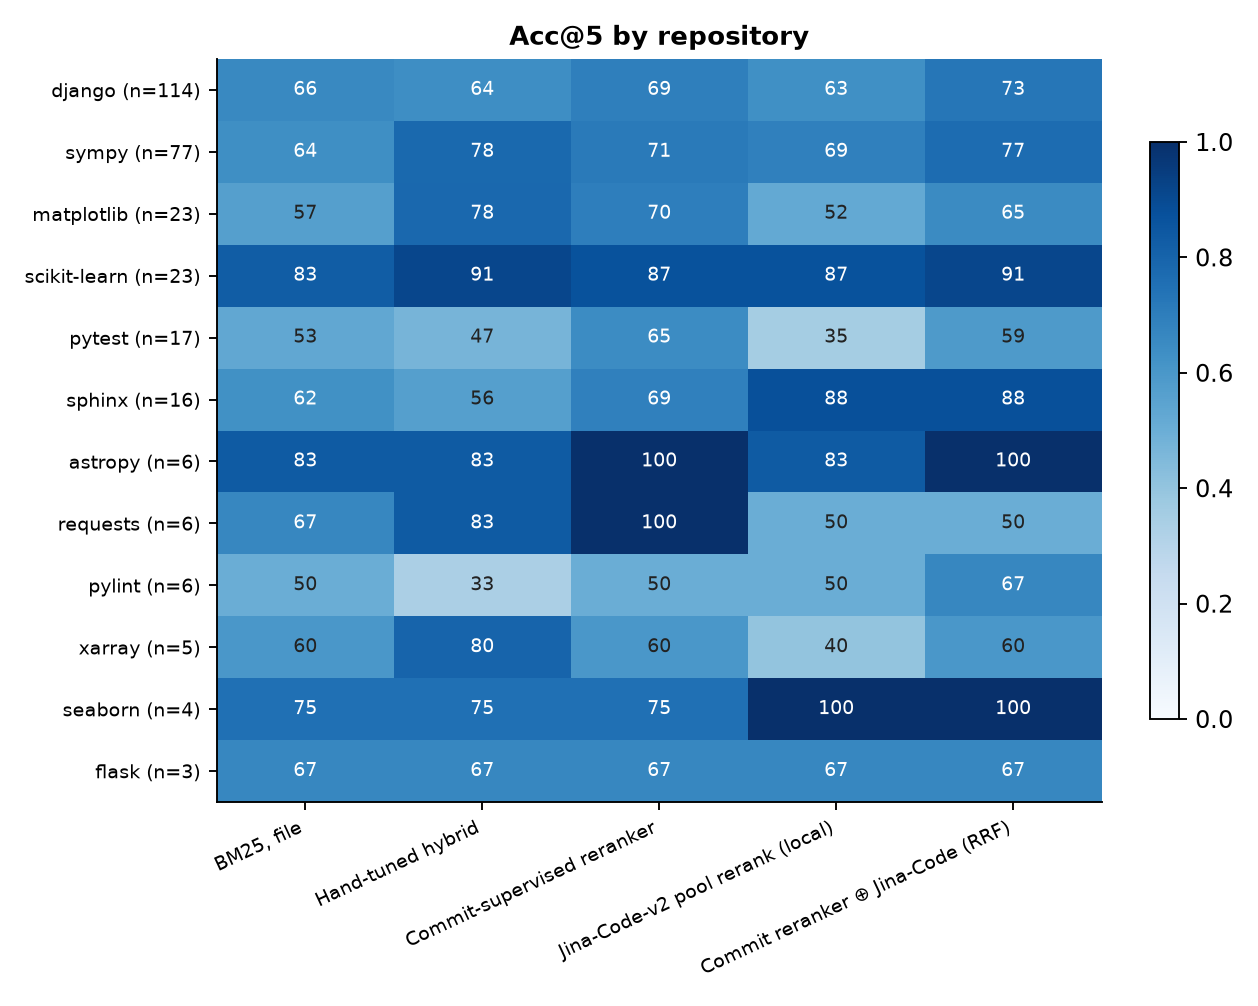
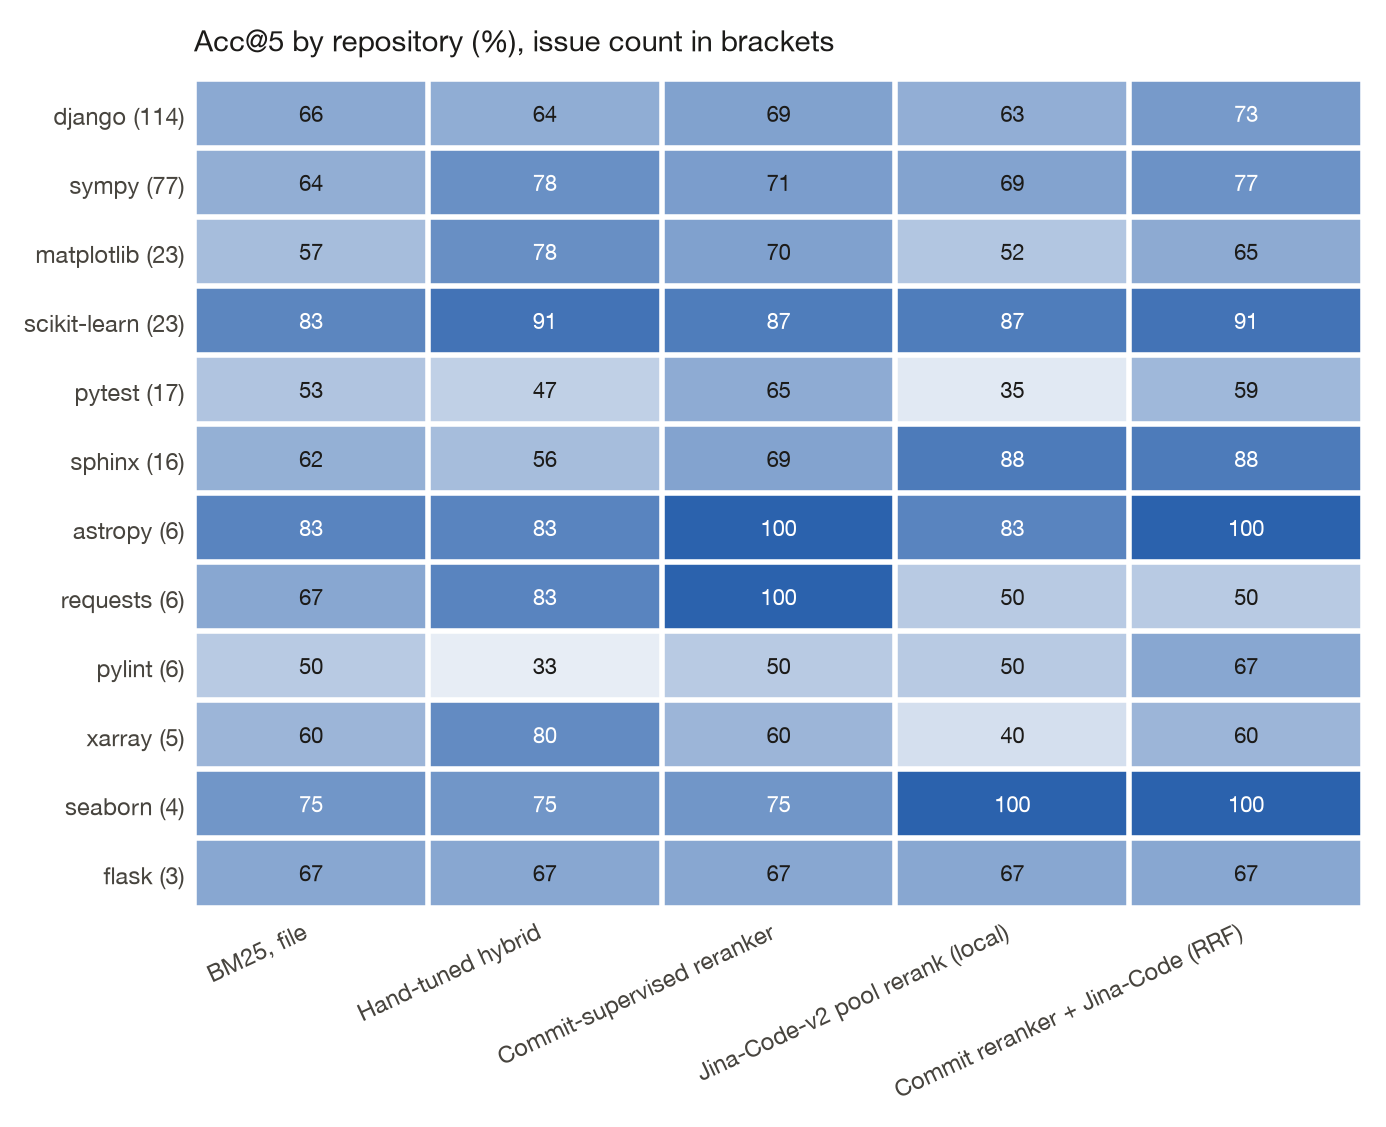
Restyle charts to match the project pages
One shared chart style (chartstyle.py): sans labels like the page tables, plain
left-aligned titles, a light horizontal grid, direct labels where lines end, and a
four-colour set that passes a colour-blind separation check. Charts regenerated
from the committed results; no numbers changed.

diff --git a/site/index.html b/site/index.html
@@ -77,7 +77,7 @@ rows use paid APIs and nothing measured here does. My BM25 lands close to the pu
 <div class="tbl wide"><p class=cap><b>Table 1.</b> File-level localization on SWE-bench Lite, 300 issues.</p><div class=scroll><table><thead><tr><th>Method</th><th>Source</th><th class=n>Acc@1</th><th class=n>Acc@3</th><th class=n>Acc@5</th><th class=n>Acc@10</th><th class=n>MRR</th></tr></thead><tbody><tr><td><strong>Commit reranker ⊕ Jina-Code (RRF)</strong></td><td>measured here</td><td class=n>46.0 <span class=dim>[40.3, 51.7]</span></td><td class=n>65.7 <span class=dim>[60.3, 71.0]</span></td><td class=n>74.7 <span class=dim>[69.7, 79.3]</span></td><td class=n>83.7</td><td class=n>0.586</td></tr><tr><td>BM25 ⊕ Jina-Code (RRF)</td><td>measured here</td><td class=n>43.0 <span class=dim>[37.3, 48.7]</span></td><td class=n>63.7 <span class=dim>[58.0, 69.3]</span></td><td class=n>73.3 <span class=dim>[68.3, 78.3]</span></td><td class=n>80.3</td><td class=n>0.561</td></tr><tr><td>Commit-supervised reranker</td><td>measured here</td><td class=n>47.7 <span class=dim>[42.0, 53.7]</span></td><td class=n>65.0 <span class=dim>[59.3, 70.3]</span></td><td class=n>71.7 <span class=dim>[66.0, 76.7]</span></td><td class=n>79.0</td><td class=n>0.587</td></tr><tr><td>Commit reranker, leave-one-repo-out</td><td>measured here</td><td class=n>46.0 <span class=dim>[40.7, 51.7]</span></td><td class=n>64.3 <span class=dim>[58.7, 69.7]</span></td><td class=n>71.0 <span class=dim>[65.7, 76.3]</span></td><td class=n>79.3</td><td class=n>0.573</td></tr><tr><td>Hand-tuned hybrid</td><td>measured here</td><td class=n>43.0 <span class=dim>[37.3, 48.3]</span></td><td class=n>63.0 <span class=dim>[57.3, 68.0]</span></td><td class=n>70.0 <span class=dim>[64.3, 75.3]</span></td><td class=n>76.3</td><td class=n>0.551</td></tr><tr><td>Jina-Code-v2 pool rerank (local)</td><td>measured here</td><td class=n>32.0 <span class=dim>[26.7, 37.7]</span></td><td class=n>54.0 <span class=dim>[48.3, 59.7]</span></td><td class=n>65.3 <span class=dim>[59.7, 71.0]</span></td><td class=n>78.7</td><td class=n>0.469</td></tr><tr><td>BM25, file</td><td>measured here</td><td class=n>37.3 <span class=dim>[32.0, 42.7]</span></td><td class=n>58.3 <span class=dim>[52.7, 64.0]</span></td><td class=n>65.0 <span class=dim>[59.3, 70.3]</span></td><td class=n>75.3</td><td class=n>0.507</td></tr><tr><td>BM25, chunk-max</td><td>measured here</td><td class=n>35.3 <span class=dim>[30.0, 41.0]</span></td><td class=n>57.0 <span class=dim>[51.3, 62.7]</span></td><td class=n>65.0 <span class=dim>[59.7, 70.3]</span></td><td class=n>72.3</td><td class=n>0.489</td></tr><tr><td>BM25</td><td>reported, sparse retrieval</td><td class=n>38.7</td><td class=n>51.8</td><td class=n>61.7</td><td class=n>–</td><td class=n>–</td></tr><tr><td>E5-base-v2</td><td>reported, dense retrieval</td><td class=n>49.6</td><td class=n>74.5</td><td class=n>80.3</td><td class=n>–</td><td class=n>–</td></tr><tr><td>Jina-Code-v2</td><td>reported, dense retrieval</td><td class=n>43.4</td><td class=n>71.2</td><td class=n>80.3</td><td class=n>–</td><td class=n>–</td></tr><tr><td>Codesage-large-v2</td><td>reported, dense retrieval</td><td class=n>47.8</td><td class=n>69.3</td><td class=n>78.1</td><td class=n>–</td><td class=n>–</td></tr><tr><td>CodeRankEmbed</td><td>reported, dense retrieval</td><td class=n>52.5</td><td class=n>77.7</td><td class=n>84.7</td><td class=n>–</td><td class=n>–</td></tr><tr><td>Agentless (GPT-4o)</td><td>reported, LLM pipeline</td><td class=n>67.2</td><td class=n>74.5</td><td class=n>74.5</td><td class=n>–</td><td class=n>–</td></tr><tr><td>Agentless (Claude-3.5)</td><td>reported, LLM pipeline</td><td class=n>72.6</td><td class=n>79.2</td><td class=n>79.6</td><td class=n>–</td><td class=n>–</td></tr><tr><td>SWE-agent (Claude-3.5)</td><td>reported, LLM agent</td><td class=n>77.4</td><td class=n>87.2</td><td class=n>90.2</td><td class=n>–</td><td class=n>–</td></tr><tr><td>OpenHands (Claude-3.5)</td><td>reported, LLM agent</td><td class=n>76.3</td><td class=n>89.8</td><td class=n>90.2</td><td class=n>–</td><td class=n>–</td></tr><tr><td>MoatlessTools (Claude-3.5)</td><td>reported, LLM agent</td><td class=n>72.6</td><td class=n>85.8</td><td class=n>86.1</td><td class=n>–</td><td class=n>–</td></tr><tr><td>LocAgent (Claude-3.5)</td><td>reported, LLM agent</td><td class=n>77.7</td><td class=n>92.0</td><td class=n>94.2</td><td class=n>–</td><td class=n>–</td></tr></tbody></table></div></div>
 <figure class=narrow><img src="swebench_leaderboard.png" alt="Horizontal bar chart of Acc@5 for measured and reported methods. Measured methods sit between BM25 and the LLM agents.">
 <figcaption><b>Figure 1.</b> Acc@5 for every method. Blue bars were measured here; grey and orange bars are reported numbers.</figcaption></figure>
-<figure class=wide><img src="swebench_acc_at_k.png" alt="Accuracy as the number of suggested files grows, for each measured method.">
+<figure class=narrow><img src="swebench_acc_at_k.png" alt="Accuracy as the number of suggested files grows, for each measured method.">
 <figcaption><b>Figure 2.</b> Accuracy as the number of suggested files grows.</figcaption></figure>
 <div class="tbl wide"><p class=cap><b>Table 2.</b> Acc@5 by repository.</p><div class=scroll><table><thead><tr><th>Repository</th><th class=n>Issues</th><th class=n>BM25, file</th><th class=n>Commit-supervised reranker</th><th class=n>Jina-Code-v2 pool rerank (local)</th><th class=n>Commit reranker ⊕ Jina-Code (RRF)</th></tr></thead><tbody><tr><td>django/django</td><td class=n>114</td><td class=n>65.8</td><td class=n>69.3</td><td class=n>63.2</td><td class=n>72.8</td></tr><tr><td>sympy/sympy</td><td class=n>77</td><td class=n>63.6</td><td class=n>71.4</td><td class=n>68.8</td><td class=n>76.6</td></tr><tr><td>matplotlib/matplotlib</td><td class=n>23</td><td class=n>56.5</td><td class=n>69.6</td><td class=n>52.2</td><td class=n>65.2</td></tr><tr><td>scikit-learn/scikit-learn</td><td class=n>23</td><td class=n>82.6</td><td class=n>87.0</td><td class=n>87.0</td><td class=n>91.3</td></tr><tr><td>pytest-dev/pytest</td><td class=n>17</td><td class=n>52.9</td><td class=n>64.7</td><td class=n>35.3</td><td class=n>58.8</td></tr><tr><td>sphinx-doc/sphinx</td><td class=n>16</td><td class=n>62.5</td><td class=n>68.8</td><td class=n>87.5</td><td class=n>87.5</td></tr><tr><td>astropy/astropy</td><td class=n>6</td><td class=n>83.3</td><td class=n>100.0</td><td class=n>83.3</td><td class=n>100.0</td></tr><tr><td>psf/requests</td><td class=n>6</td><td class=n>66.7</td><td class=n>100.0</td><td class=n>50.0</td><td class=n>50.0</td></tr><tr><td>pylint-dev/pylint</td><td class=n>6</td><td class=n>50.0</td><td class=n>50.0</td><td class=n>50.0</td><td class=n>66.7</td></tr><tr><td>pydata/xarray</td><td class=n>5</td><td class=n>60.0</td><td class=n>60.0</td><td class=n>40.0</td><td class=n>60.0</td></tr><tr><td>mwaskom/seaborn</td><td class=n>4</td><td class=n>75.0</td><td class=n>75.0</td><td class=n>100.0</td><td class=n>100.0</td></tr><tr><td>pallets/flask</td><td class=n>3</td><td class=n>66.7</td><td class=n>66.7</td><td class=n>66.7</td><td class=n>66.7</td></tr></tbody></table></div></div>
 <div class="tbl wide"><p class=cap><b>Table 3.</b> Why the best method missed at k=5, sorted into rough categories.</p><div class=scroll><table><thead><tr><th>Why Commit reranker ⊕ Jina-Code (RRF) missed at k=5</th><th class=n>Issues</th><th>Examples</th></tr></thead><tbody><tr><td>issue names a symbol defined in the gold file</td><td class=n>28</td><td><code>django__django-10924</code>, <code>django__django-11049</code>, <code>django__django-11564</code></td></tr><tr><td>vocabulary gap (gold not in BM25 top 50)</td><td class=n>17</td><td><code>django__django-11797</code>, <code>django__django-12113</code>, <code>django__django-16400</code></td></tr><tr><td>gold file named in issue, still missed</td><td class=n>14</td><td><code>django__django-12308</code>, <code>django__django-13158</code>, <code>django__django-13220</code></td></tr><tr><td>lexically reachable but out-ranked</td><td class=n>11</td><td><code>django__django-10914</code>, <code>django__django-12470</code>, <code>django__django-15388</code></td></tr><tr><td>near miss (ranked 6-10)</td><td class=n>6</td><td><code>django__django-13033</code>, <code>psf__requests-2674</code>, <code>scikit-learn__scikit-learn-13584</code></td></tr></tbody></table></div></div>

diff --git a/src/commitcompass/swe_charts.py b/src/commitcompass/swe_charts.py
@@ -5,11 +5,10 @@ from __future__ import annotations
 import json
 from pathlib import Path
 
-import matplotlib
+import matplotlib.pyplot as plt
+import numpy as np
 
-matplotlib.use("Agg")
-import matplotlib.pyplot as plt  # noqa: E402
-import numpy as np  # noqa: E402
+from . import chartstyle as cs
 
 LABELS = {
     "bm25_file": "BM25, file",
@@ -25,23 +24,31 @@ LABELS = {
     "rrf_reranker_dense": "Commit reranker ⊕ Jina-Code (RRF)",
 }
 SHOW = ["bm25_file", "hybrid_hand_tuned", "commit_reranker", "dense_jina_code", "rrf_reranker_dense"]
-OURS, PUB, LLM = "#2457c5", "#b8bec6", "#e3a33b"
+COLOUR = {
+    "rrf_reranker_dense": cs.BLUE,
+    "commit_reranker": cs.PURPLE,
+    "hybrid_hand_tuned": cs.ORANGE,
+    "dense_jina_code": cs.GREEN,
+    "bm25_file": cs.NEUTRAL,
+}
+OURS, PUB, LLM = cs.BLUE, "#d3cec4", cs.ORANGE
 
 
-def _style() -> None:
-    plt.rcParams.update(
-        {
-            "font.size": 10,
-            "axes.spines.top": False,
-            "axes.spines.right": False,
-            "axes.titleweight": "bold",
-            "axes.titlesize": 11,
-        }
-    )
+def _spread(points: list[list], gap: float) -> list[list]:
+    """Push end-of-line labels apart so they never overlap (points are [y, label, ...], sorted high to low)."""
+    points.sort(key=lambda p: -p[0])
+    for i in range(1, len(points)):
+        points[i][0] = min(points[i][0], points[i - 1][0] - gap)
+    return points
+
+
+def _lab(m: str) -> str:
+    """Chart label: the chart font has no ⊕, so fused methods read "A + B (RRF)" in figures."""
+    return LABELS[m].replace(" ⊕ ", " + ")
 
 
 def leaderboard(res: dict, out: Path) -> None:
-    _style()
+    cs.apply()
     agg = res["aggregate"]
     rows: list[tuple[str, float, list[float] | None, str]] = [
         (f"{p['method']} (reported)", p["acc@5"], None, LLM if "LLM" in p["kind"] else PUB) for p in res["published"]
@@ -49,71 +56,84 @@ def leaderboard(res: dict, out: Path) -> None:
     for m in SHOW:
         if m in agg:
             a = agg[m]["acc@5"]
-            rows.append((f"{LABELS[m]} (ours)", 100 * a["mean"], [100 * a["ci95"][0], 100 * a["ci95"][1]], OURS))
+            rows.append((_lab(m), 100 * a["mean"], [100 * a["ci95"][0], 100 * a["ci95"][1]], OURS))
     rows.sort(key=lambda r: r[1])
-    fig, ax = plt.subplots(figsize=(8.6, 0.34 * len(rows) + 1.4))
+    fig, ax = plt.subplots(figsize=(8, 0.3 * len(rows) + 1.2))
+    ax.grid(axis="x")
+    ax.grid(axis="y", visible=False)
     y = np.arange(len(rows))
-    ax.barh(y, [r[1] for r in rows], color=[r[3] for r in rows], height=0.7)
+    ax.barh(y, [r[1] for r in rows], color=[r[3] for r in rows], height=0.62)
     for yi, r in zip(y, rows, strict=True):
         if r[2]:
-            ax.plot(r[2], [yi, yi], color="#111", lw=1.2)
+            ax.plot(r[2], [yi, yi], color=cs.INK, lw=1)
         x_label = (r[2][1] if r[2] else r[1]) + 0.8  # after the CI whisker, never on it
-        ax.text(x_label, float(yi), f"{r[1]:.1f}", va="center", fontsize=8)
-    ax.set_yticks(y, [r[0] for r in rows], fontsize=8.5)
-    ax.set_xlim(0, 105)
-    ax.set_xlabel("file-level Acc@5 on SWE-bench Lite (%), all gold files in top 5")
-    ax.set_title("SWE-bench Lite file localization, Acc@5")
+        ax.text(x_label, float(yi), f"{r[1]:.1f}", va="center", fontsize=8, color=cs.INK2)
+    ax.set_yticks(y, [r[0] for r in rows])
+    ax.tick_params(axis="y", length=0)
+    ax.spines["left"].set_visible(False)
+    ax.set_xlim(0, 100)
+    ax.set_xlabel("Acc@5 on SWE-bench Lite (%): every changed file in the top 5")
+    ax.set_title("File localization on SWE-bench Lite")
     from matplotlib.patches import Patch
 
     ax.legend(
         handles=[
-            Patch(color=OURS, label="measured here (CPU, no API)"),
-            Patch(color=PUB, label="reported: retrieval"),
-            Patch(color=LLM, label="reported: LLM pipelines / agents"),
+            Patch(color=OURS, label="Measured here (laptop CPU, no API), with 95% CI"),
+            Patch(color=PUB, label="Reported: retrieval"),
+            Patch(color=LLM, label="Reported: LLM pipelines and agents"),
         ],
-        frameon=False,
-        fontsize=8,
-        loc="upper center",
-        bbox_to_anchor=(0.45, -0.09),
+        loc="upper left",
+        bbox_to_anchor=(-0.02, -0.1),
         ncol=3,
+        handlelength=1,
     )
     fig.tight_layout()
-    fig.savefig(out / "swebench_leaderboard.png", dpi=170)
+    fig.savefig(out / "swebench_leaderboard.png")
     plt.close(fig)
 
 
 def acc_curves(res: dict, out: Path) -> None:
-    _style()
-    fig, ax = plt.subplots(figsize=(6, 3.8))
+    cs.apply()
+    fig, ax = plt.subplots(figsize=(6.8, 4.6))
     ks = [1, 3, 5, 10]
+    ends = []
     for m in SHOW:
         if m not in res["aggregate"]:
             continue
-        ax.plot(
-            ks,
-            [100 * res["aggregate"][m][f"acc@{k}"]["mean"] for k in ks],
-            marker="o",
-            label=LABELS[m],
-            lw=2.2 if m.startswith("rrf_reranker") or m == "commit_reranker" else 1.4,
-        )
+        ys = [100 * res["aggregate"][m][f"acc@{k}"]["mean"] for k in ks]
+        ax.plot(ks, ys, marker="o", color=COLOUR[m], lw=2.2 if m == "rrf_reranker_dense" else 1.6)
+        ends.append([ys[-1], _lab(m)])
+    for yv, lab in _spread(ends, 1.9):
+        ax.annotate(lab, (10, yv), xytext=(8, 0), textcoords="offset points", va="center", fontsize=8, color=cs.INK2)
     ax.set_xticks(ks)
-    ax.set_xlabel("k")
+    ax.set_xlim(0.5, 16)
+    ax.spines["bottom"].set_bounds(0.5, 10.5)
+    ax.set_xlabel("Files suggested (k)")
     ax.set_ylabel("Acc@k (%)")
-    ax.set_title("Acc@k on SWE-bench Lite (300 issues)")
-    ax.legend(frameon=False, fontsize=7.5)
+    ax.set_title(f"Accuracy as more files are suggested, {res['n_test']} issues")
     fig.tight_layout()
-    fig.savefig(out / "swebench_acc_at_k.png", dpi=170)
+    fig.savefig(out / "swebench_acc_at_k.png")
     plt.close(fig)
 
 
 def per_repo(res: dict, out: Path) -> None:
-    _style()
+    from matplotlib.colors import LinearSegmentedColormap
+
+    cs.apply()
     pr = res["per_repo_acc@5"]
     repos = sorted(pr, key=lambda r: -pr[r]["n"])
     methods = [m for m in SHOW if m in next(iter(pr.values()))]
     M = np.array([[pr[r][m] for m in methods] for r in repos])
-    fig, ax = plt.subplots(figsize=(7.4, 0.36 * len(repos) + 1.6))
-    im = ax.imshow(M, cmap="Blues", vmin=0, vmax=1, aspect="auto")
+    fig, ax = plt.subplots(figsize=(7, 0.34 * len(repos) + 1.6))
+    ax.grid(False)
+    cmap = LinearSegmentedColormap.from_list("ink_blue", ["#ffffff", cs.BLUE])
+    ax.imshow(M, cmap=cmap, vmin=0.25, vmax=1, aspect="auto")
+    ax.set_xticks(np.arange(-0.5, len(methods)), minor=True)
+    ax.set_yticks(np.arange(-0.5, len(repos)), minor=True)
+    ax.grid(which="minor", color="white", linewidth=2)
+    ax.tick_params(which="both", length=0)
+    for s in ax.spines.values():
+        s.set_visible(False)
     for i in range(len(repos)):
         for j in range(len(methods)):
             ax.text(
@@ -123,14 +143,13 @@ def per_repo(res: dict, out: Path) -> None:
                 ha="center",
                 va="center",
                 fontsize=8,
-                color="white" if M[i, j] > 0.6 else "#222",
+                color="white" if M[i, j] > 0.72 else cs.INK,
             )
-    ax.set_xticks(range(len(methods)), [LABELS[m] for m in methods], rotation=25, ha="right", fontsize=8)
-    ax.set_yticks(range(len(repos)), [f"{r.split('/')[1]} (n={pr[r]['n']})" for r in repos], fontsize=8)
-    ax.set_title("Acc@5 by repository")
-    fig.colorbar(im, ax=ax, fraction=0.03)
+    ax.set_xticks(range(len(methods)), [_lab(m) for m in methods], rotation=25, ha="right")
+    ax.set_yticks(range(len(repos)), [f"{r.split('/')[1]} ({pr[r]['n']})" for r in repos])
+    ax.set_title("Acc@5 by repository (%), issue count in brackets")
     fig.tight_layout()
-    fig.savefig(out / "swebench_per_repo.png", dpi=170)
+    fig.savefig(out / "swebench_per_repo.png")
     plt.close(fig)
 
 

diff --git a/src/commitcompass/report.py b/src/commitcompass/report.py
@@ -7,12 +7,10 @@ import re
 from collections import Counter, defaultdict
 from pathlib import Path
 
-import matplotlib
+import matplotlib.pyplot as plt
 
-matplotlib.use("Agg")
-import matplotlib.pyplot as plt  # noqa: E402
-
-from .textproc import tokenize  # noqa: E402
+from . import chartstyle as cs
+from .textproc import tokenize
 
 LABELS = {
     "bm25_file": "BM25 (file)",
@@ -87,12 +85,13 @@ def deltas_table(vs: dict) -> str:
 
 
 def charts(summary: dict, results_dir: Path) -> list[str]:
+    cs.apply()
     files = []
     # 1) Recall@10 per method, as-is vs masked, with CIs.
     fig, ax = plt.subplots(figsize=(9, 4.2))
     methods = list(LABELS)
     width = 0.38
-    for j, (v, color) in enumerate((("as_is", "#4C6EF5"), ("masked", "#F59F00"))):
+    for j, (v, color) in enumerate((("as_is", cs.BLUE), ("masked", cs.ORANGE))):
         p = summary["variants"][v]["pooled"]
         means = [p[m]["recall@10"]["mean"] for m in methods]
         err = [
@@ -103,28 +102,28 @@ def charts(summary: dict, results_dir: Path) -> list[str]:
         ax.bar(
             xs,
             means,
-            width,
+            width - 0.04,
             yerr=err,
-            capsize=3,
+            error_kw={"elinewidth": 0.9, "ecolor": cs.INK2, "capsize": 0},
             color=color,
-            label="message as-is" if v == "as_is" else "file names masked",
+            label="Commit message as written" if v == "as_is" else "File names masked out of the message",
         )
     ax.set_xticks(range(len(methods)))
-    ax.set_xticklabels([LABELS[m] for m in methods], rotation=25, ha="right", fontsize=8)
+    ax.set_xticklabels([LABELS[m] for m in methods], rotation=25, ha="right")
+    ax.tick_params(axis="x", length=0)
     ax.set_ylabel("Recall@10 (test split)")
     ax.set_ylim(0, 1)
-    ax.legend(frameon=False)
-    ax.spines[["top", "right"]].set_visible(False)
-    ax.set_title("Which files did the commit actually edit? Recall@10 with 95% CIs")
+    ax.legend(loc="upper left", ncol=2, handlelength=1)
+    ax.set_title("Which files did the commit edit? Recall@10 with 95% CIs")
     fig.tight_layout()
-    fig.savefig(results_dir / "recall_at_10.png", dpi=150)
+    fig.savefig(results_dir / "recall_at_10.png")
     plt.close(fig)
     files.append("recall_at_10.png")
 
     # 2) Recall vs context token budget.
-    fig, ax = plt.subplots(figsize=(6.5, 4))
+    fig, ax = plt.subplots(figsize=(6.8, 4))
     budgets = [2, 4, 8, 16]
-    for m, color in zip(MAIN, ("#868E96", "#4C6EF5", "#2B8A3E"), strict=True):
+    for m, color in zip(MAIN, (cs.NEUTRAL, cs.ORANGE, cs.BLUE), strict=True):
         for v, ls in (("as_is", "-"), ("masked", "--")):
             p = summary["variants"][v]["pooled"][m]
             ax.plot(
@@ -133,19 +132,19 @@ def charts(summary: dict, results_dir: Path) -> list[str]:
                 ls,
                 marker="o",
                 color=color,
-                label=f"{LABELS[m]} ({'as-is' if v == 'as_is' else 'masked'})",
+                label=f"{LABELS[m]} ({'as written' if v == 'as_is' else 'masked'})",
             )
     ax.set_xscale("log", base=2)
     ax.set_xticks(budgets)
     ax.set_xticklabels([f"{b}k" for b in budgets])
+    ax.minorticks_off()
     ax.set_xlabel("Context budget (approx. tokens)")
-    ax.set_ylabel("Gold files with ≥1 chunk in context")
+    ax.set_ylabel("Changed files with a chunk in context")
     ax.set_ylim(0, 1)
-    ax.legend(frameon=False, fontsize=7)
-    ax.spines[["top", "right"]].set_visible(False)
-    ax.set_title("Recall under a fixed context budget")
+    ax.legend(fontsize=7.5, loc="lower right")
+    ax.set_title("Recall under a fixed context budget (dashed: file names masked)")
     fig.tight_layout()
-    fig.savefig(results_dir / "budget_curve.png", dpi=150)
+    fig.savefig(results_dir / "budget_curve.png")
     plt.close(fig)
     files.append("budget_curve.png")
     return files

diff --git a/src/commitcompass/chartstyle.py b/src/commitcompass/chartstyle.py
@@ -1,0 +1,66 @@
+"""One chart style for the project pages, shared with TrustGate, CommitCompass and JudgeGate.
+
+Plain and quiet so the figures sit inside a written page: sans labels that match the page's tables,
+left-aligned regular-weight titles, a light horizontal grid and no box. The four series colours
+pass a colour-blind separation check (OKLab ΔE >= 14 between neighbours under protan/deutan/tritan).
+"""
+
+from __future__ import annotations
+
+import matplotlib
+
+matplotlib.use("Agg")
+import matplotlib.pyplot as plt  # noqa: E402
+from cycler import cycler  # noqa: E402
+
+INK, INK2, MUTED, GRID = "#1c1b19", "#47443e", "#77736a", "#ebe6db"
+BLUE, ORANGE, PURPLE, GREEN = "#2b62ad", "#d0732e", "#8156a8", "#2f8f5b"
+SERIES = (BLUE, ORANGE, PURPLE, GREEN)  # fixed order, never cycled
+NEUTRAL = "#a8a397"  # reference rows and baselines
+FLAG = "#a3261b"  # reserved for "broke the budget"; never a series colour
+
+RC = {
+    "figure.facecolor": "white",
+    "axes.facecolor": "white",
+    "savefig.facecolor": "white",
+    "font.family": "sans-serif",
+    "font.sans-serif": ["Helvetica Neue", "Helvetica", "Arial", "DejaVu Sans"],
+    "font.size": 9.5,
+    "axes.titlesize": 10.5,
+    "axes.titleweight": "normal",
+    "axes.titlelocation": "left",
+    "axes.titlecolor": INK,
+    "axes.titlepad": 10,
+    "axes.labelsize": 9.5,
+    "axes.labelcolor": INK2,
+    "axes.edgecolor": MUTED,
+    "axes.linewidth": 0.8,
+    "axes.spines.top": False,
+    "axes.spines.right": False,
+    "axes.grid": True,
+    "axes.grid.axis": "y",
+    "axes.axisbelow": True,
+    "axes.prop_cycle": cycler(color=list(SERIES)),
+    "grid.color": GRID,
+    "grid.linewidth": 0.8,
+    "xtick.color": MUTED,
+    "ytick.color": MUTED,
+    "xtick.labelcolor": INK2,
+    "ytick.labelcolor": INK2,
+    "xtick.labelsize": 8.5,
+    "ytick.labelsize": 8.5,
+    "ytick.major.size": 0,
+    "legend.frameon": False,
+    "legend.fontsize": 8.5,
+    "legend.labelcolor": INK2,
+    "lines.linewidth": 1.8,
+    "lines.markersize": 5,
+    "patch.linewidth": 0,
+    "savefig.dpi": 200,
+    "savefig.bbox": "tight",
+    "savefig.pad_inches": 0.12,
+}
+
+
+def apply() -> None:
+    plt.rcParams.update(RC)  # type: ignore[arg-type]  # rcParams keys are typed as literals

diff --git a/src/commitcompass/site.py b/src/commitcompass/site.py
@@ -170,7 +170,7 @@ rows use paid APIs and nothing measured here does. My BM25 lands close to the pu
 <div class="tbl wide"><p class=cap><b>Table 1.</b> File-level localization on SWE-bench Lite, {{n_test}} issues.</p>{{leaderboard}}</div>
 <figure class=narrow><img src="swebench_leaderboard.png" alt="Horizontal bar chart of Acc@5 for measured and reported methods. Measured methods sit between BM25 and the LLM agents.">
 <figcaption><b>Figure 1.</b> Acc@5 for every method. Blue bars were measured here; grey and orange bars are reported numbers.</figcaption></figure>
-<figure class=wide><img src="swebench_acc_at_k.png" alt="Accuracy as the number of suggested files grows, for each measured method.">
+<figure class=narrow><img src="swebench_acc_at_k.png" alt="Accuracy as the number of suggested files grows, for each measured method.">
 <figcaption><b>Figure 2.</b> Accuracy as the number of suggested files grows.</figcaption></figure>
 <div class="tbl wide"><p class=cap><b>Table 2.</b> Acc@5 by repository.</p>{{per_repo_table}}</div>
 <div class="tbl wide"><p class=cap><b>Table 3.</b> Why the best method missed at k=5, sorted into rough categories.</p>{{miss_table}}</div>
